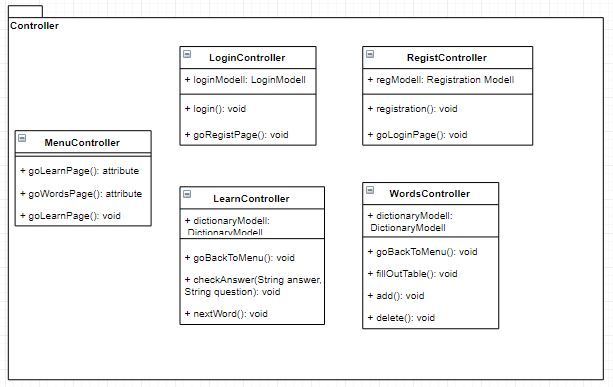
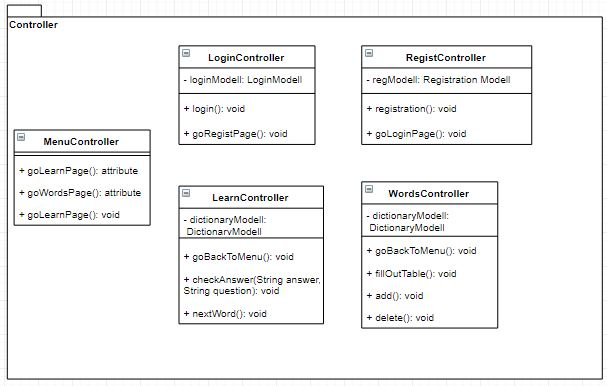
Sofware/Entity/ Osztályok frissítése Adatbázis kapcsolat módositás software/controller/Regisztrációs kontroller hozzá adása software/modell/Regisztrációs modell hozzá adása (userExist,emaiExist,addPlayer) metódusok implementálása Doc/images/ Ábrák frisitése(Modell,controller,persist)

Changed region(s): [[0.0, 0.0, 1.0, 0.9948], [0.5634, 0.4663, 0.8303, 0.8705], [0.5634, 0.0933, 0.8896, 0.4041]]

diff --git a/App/src/main/java/software/Entity/Database.java b/App/src/main/java/software/Entity/Database.java
@@ -1,0 +1,73 @@
+package software.Entity;
+
+import javax.persistence.EntityManager;
+import javax.persistence.EntityManagerFactory;
+import javax.persistence.Persistence;
+import javax.persistence.Query;
+import java.util.List;
+
+public class Database {
+
+     static EntityManager em=null;
+
+     static EntityManagerFactory emf=null ;
+
+     public Database(){
+             openEntityManager();
+     }
+
+     private  void openEntityManager(){
+         if(em!=null && emf!=null) {
+             if (em.isOpen()) {
+                 closeEntityManager();
+             }
+         }
+         emf = Persistence.createEntityManagerFactory("persistent");
+         em = emf.createEntityManager();
+     }
+
+     private void closeEntityManager(){
+         em.close();
+         emf.close();
+     }
+
+     public void addPlayer(Player player) {
+         if(!em.getTransaction().isActive())
+         em.getTransaction().begin();
+         em.persist(player);
+         try {
+             em.getTransaction().commit();
+         } catch (Exception e) {
+             System.err.println("Létetik a felhasználó");
+         }
+     }
+
+     public void addWord(Word word){
+         if(!em.getTransaction().isActive())
+         em.getTransaction().begin();
+         em.persist(word);
+         em.getTransaction().commit();
+
+     }
+
+     public void removePlayer(Player player){
+         if(!em.getTransaction().isActive())
+         em.getTransaction().begin();
+         em.remove(player);
+         em.getTransaction().commit();
+     }
+
+     public void removeWord(Word word){
+         if(!em.getTransaction().isActive())
+         em.getTransaction().begin();
+         em.remove(word);
+         em.getTransaction().commit();
+     }
+
+     public List<Player> getAllPlayer(){
+         if(!em.getTransaction().isActive())
+         em.getTransaction().begin();
+         Query query=em.createNativeQuery("select * from player",Player.class);
+         return  query.getResultList();
+     }
+}

diff --git a/App/src/main/java/software/app/Main.java b/App/src/main/java/software/app/Main.java
@@ -5,16 +5,12 @@ import javafx.fxml.FXMLLoader;
 import javafx.scene.Parent;
 import javafx.scene.Scene;
 import javafx.stage.Stage;
-import software.Entity.Player;
-import software.Entity.PlayerDao;
-import software.Entity.Word;
-import software.Entity.WordsDao;
+import software.controller.Controller;
+import software.controller.RegistrationController;
 
-import java.util.ArrayList;
-import java.util.List;
+
 import java.util.Objects;
 
-import static javafx.fxml.FXMLLoader.load;
 
 public class Main extends Application {
 
@@ -27,28 +23,11 @@ public class Main extends Application {
         primaryStage.show();
 
         System.out.println("lefut");
-        PlayerDao playerDao=new PlayerDao();
-        WordsDao wordsDao=new WordsDao();
-        Player player =new Player();
-        player.setEmail("sasa@sasa.com");
-        player.setPassword("titkos");
-        player.setUsername("sasa");
-        Word word=new Word();
-        word.setEngWord("what");
-        word.setHunWord("mi");
-        List<Word> words= new ArrayList<Word>();
-        words.add(word);
-        player.setWords(words);
+        RegistrationController registrationController;
 
-        System.out.println(player.getWords());
-        playerDao.openEntityManager();
-        playerDao.persist(player);
-        //wordsDao.persist(player.getWords());
-        playerDao.closeEntityManager();
-        /*
 
-        playerDao.remove((new Player(1,"sasa")));
-        System.out.println(playerDao.findAll());*/
+
+
     }
 
 

diff --git a/App/src/main/java/software/modell/RegistrationModell.java b/App/src/main/java/software/modell/RegistrationModell.java
@@ -1,0 +1,41 @@
+package software.modell;
+
+import software.Entity.Database;
+import software.Entity.Player;
+
+import java.util.List;
+
+public class RegistrationModell {
+    private Database database=new Database();
+    List<Player> players=database.getAllPlayer();
+
+
+    public boolean userExist(String username) {
+        if(players.size()!=0) {
+            for (Player player : players) {
+                System.out.println(player.getUsername()+"-"+username);
+                return username.equals(player.getUsername());
+            }
+        } return false;
+    }
+
+    public boolean emaiExist(String email){
+        if(players.size()!=0) {
+            for (Player player : players) {
+                System.out.println(player.getEmail()+"-"+email);
+                return email.equals(player.getEmail());
+            }
+        } return false;
+    }
+
+    public String updatePlayer(Player player){
+        if(userExist(player.getUsername())){
+            return "userExist";
+        }else if(emaiExist(player.getEmail())){
+            return "emailExist";
+        }else {
+            database.addPlayer(player);
+            return "sucess";
+        }
+    }
+}

diff --git a/App/src/main/java/software/Entity/Player.java b/App/src/main/java/software/Entity/Player.java
@@ -2,6 +2,7 @@ package software.Entity;
 
 import lombok.AllArgsConstructor;
 import lombok.Builder;
+import org.hibernate.annotations.Cascade;
 
 import javax.persistence.*;
 import java.util.List;
@@ -12,7 +13,7 @@ import java.util.List;
 public class Player {
     @Id
     @GeneratedValue
-    private int Id;
+    private long Id;
 
 
     @Column(unique = true)
@@ -23,7 +24,9 @@ public class Player {
 
     private String password;
 
-    @OneToMany(mappedBy = "player")
+   // @OneToMany(mappedBy = "player")
+    @OneToMany(cascade={CascadeType.PERSIST, CascadeType.MERGE},mappedBy = "player")
+    @Cascade(value = org.hibernate.annotations.CascadeType.SAVE_UPDATE)
     private List<Word> Words;
 
     public Player(){};
@@ -45,7 +48,7 @@ public class Player {
     }
 
 
-    public void setId(int id) {
+    public void setId(long id) {
         Id = id;
     }
 
@@ -61,7 +64,7 @@ public class Player {
         this.password = password;
     }
 
-    public int getId() {
+    public long getId() {
         return Id;
     }
 

diff --git a/App/src/main/java/software/controller/RegistrationController.java b/App/src/main/java/software/controller/RegistrationController.java
@@ -1,0 +1,17 @@
+package software.controller;
+
+import software.Entity.Player;
+import software.modell.RegistrationModell;
+
+public class RegistrationController {
+    RegistrationModell modell= new RegistrationModell();
+
+    public void registration(){
+        Player player=Player.builder().email("test").password("test").username("test").build();
+        Player player1=Player.builder().email("test").password("test").username("nemtest").build();
+        Player player2=Player.builder().email("uj").password("uj").username("uj").build();
+        System.out.println(modell.updatePlayer(player));
+        System.out.println(modell.updatePlayer(player1));
+        System.out.println(modell.updatePlayer(player2));
+    }
+}

diff --git a/App/src/main/java/software/Entity/Word.java b/App/src/main/java/software/Entity/Word.java
@@ -9,7 +9,6 @@ import javax.persistence.GeneratedValue;
 import javax.persistence.Id;
 import javax.persistence.ManyToOne;
 
-@Builder
 @AllArgsConstructor
 @NoArgsConstructor
 @Entity
@@ -17,7 +16,7 @@ public class Word {
 
     @Id
     @GeneratedValue
-    private int id;
+    private long id;
 
     private String hunWord;
 
@@ -29,7 +28,7 @@ public class Word {
 
     ;
 
-    public void setId(int id) {
+    public void setId(long id) {
         this.id = id;
     }
 
@@ -45,7 +44,7 @@ public class Word {
         this.player = player;
     }
 
-    public int getId() {
+    public long getId() {
         return id;
     }
 
